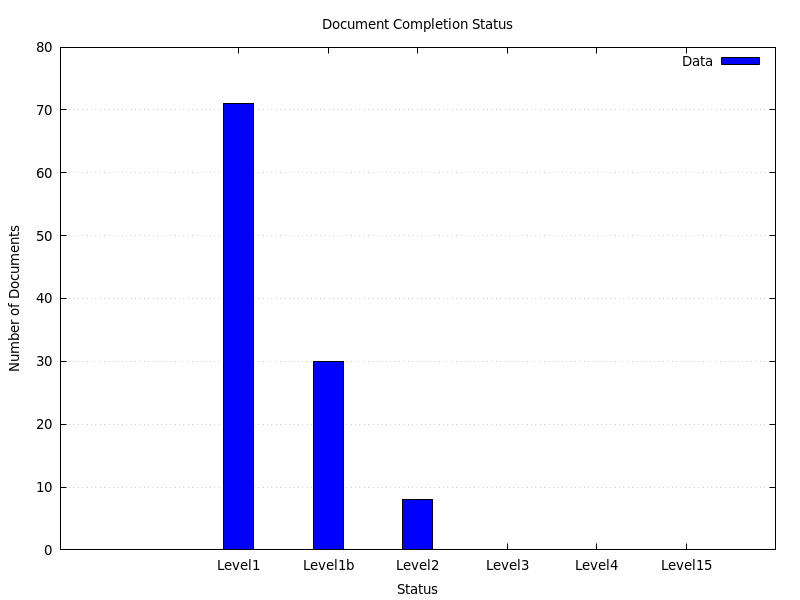
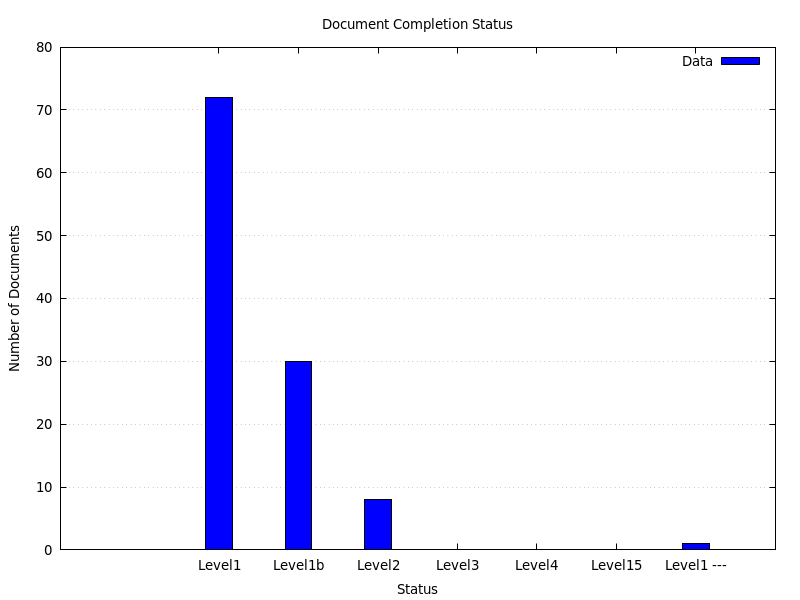
iterating docs

Changed region(s): [[0.25, 0.15, 0.6875, 0.96], [0.7188, 0.9, 0.9062, 0.96]]

diff --git a/docs/docs/GeneratedFileStatus.md b/docs/docs/GeneratedFileStatus.md
@@ -74,6 +74,7 @@ status: Level5
 | [../docs/Architecture.Probe.user_events.document.md](../docs/Architecture.Probe.user_events.document.md)  | 13|
 | [../docs/Definitions.document.md](../docs/Definitions.document.md)  | 161|
 | [../docs/Demos.0.DynamicID.md](../docs/Demos.0.DynamicID.md)  | 722|
+| [../docs/Ideas.ToExpandOn.document.md](../docs/Ideas.ToExpandOn.document.md)  | 146|
 | [../docs/Persona_DataAnalysis.document.md](../docs/Persona_DataAnalysis.document.md)  | 122|
 | [../docs/Persona_Developer.document.md](../docs/Persona_Developer.document.md)  | 183|
 | [../docs/Persona_DevOps.document.md](../docs/Persona_DevOps.document.md)  | 110|
@@ -127,5 +128,12 @@ status: Level5
 | [../docs/index.md](../docs/index.md)  | 362|
 | [../docs/Personas.Overview.document.md](../docs/Personas.Overview.document.md)  | 257|
 | [../docs/PositionPaper.DurableIds_StructuredPayloads.document.md](../docs/PositionPaper.DurableIds_StructuredPayloads.document.md)  | 1242|
+
+
+## Level1 ---
+
+| File | Word Count |
+|------|------------|
+| [../docs/bound.md](../docs/bound.md)  | 24241|
 
 

diff --git a/docs/docs/Ideas.ToExpandOn.document.md b/docs/docs/Ideas.ToExpandOn.document.md
@@ -1,4 +1,4 @@
----
+Ef>{&H%yRB---
 author: "Chris Gray"
 status: ReviewLevel1
 ---
